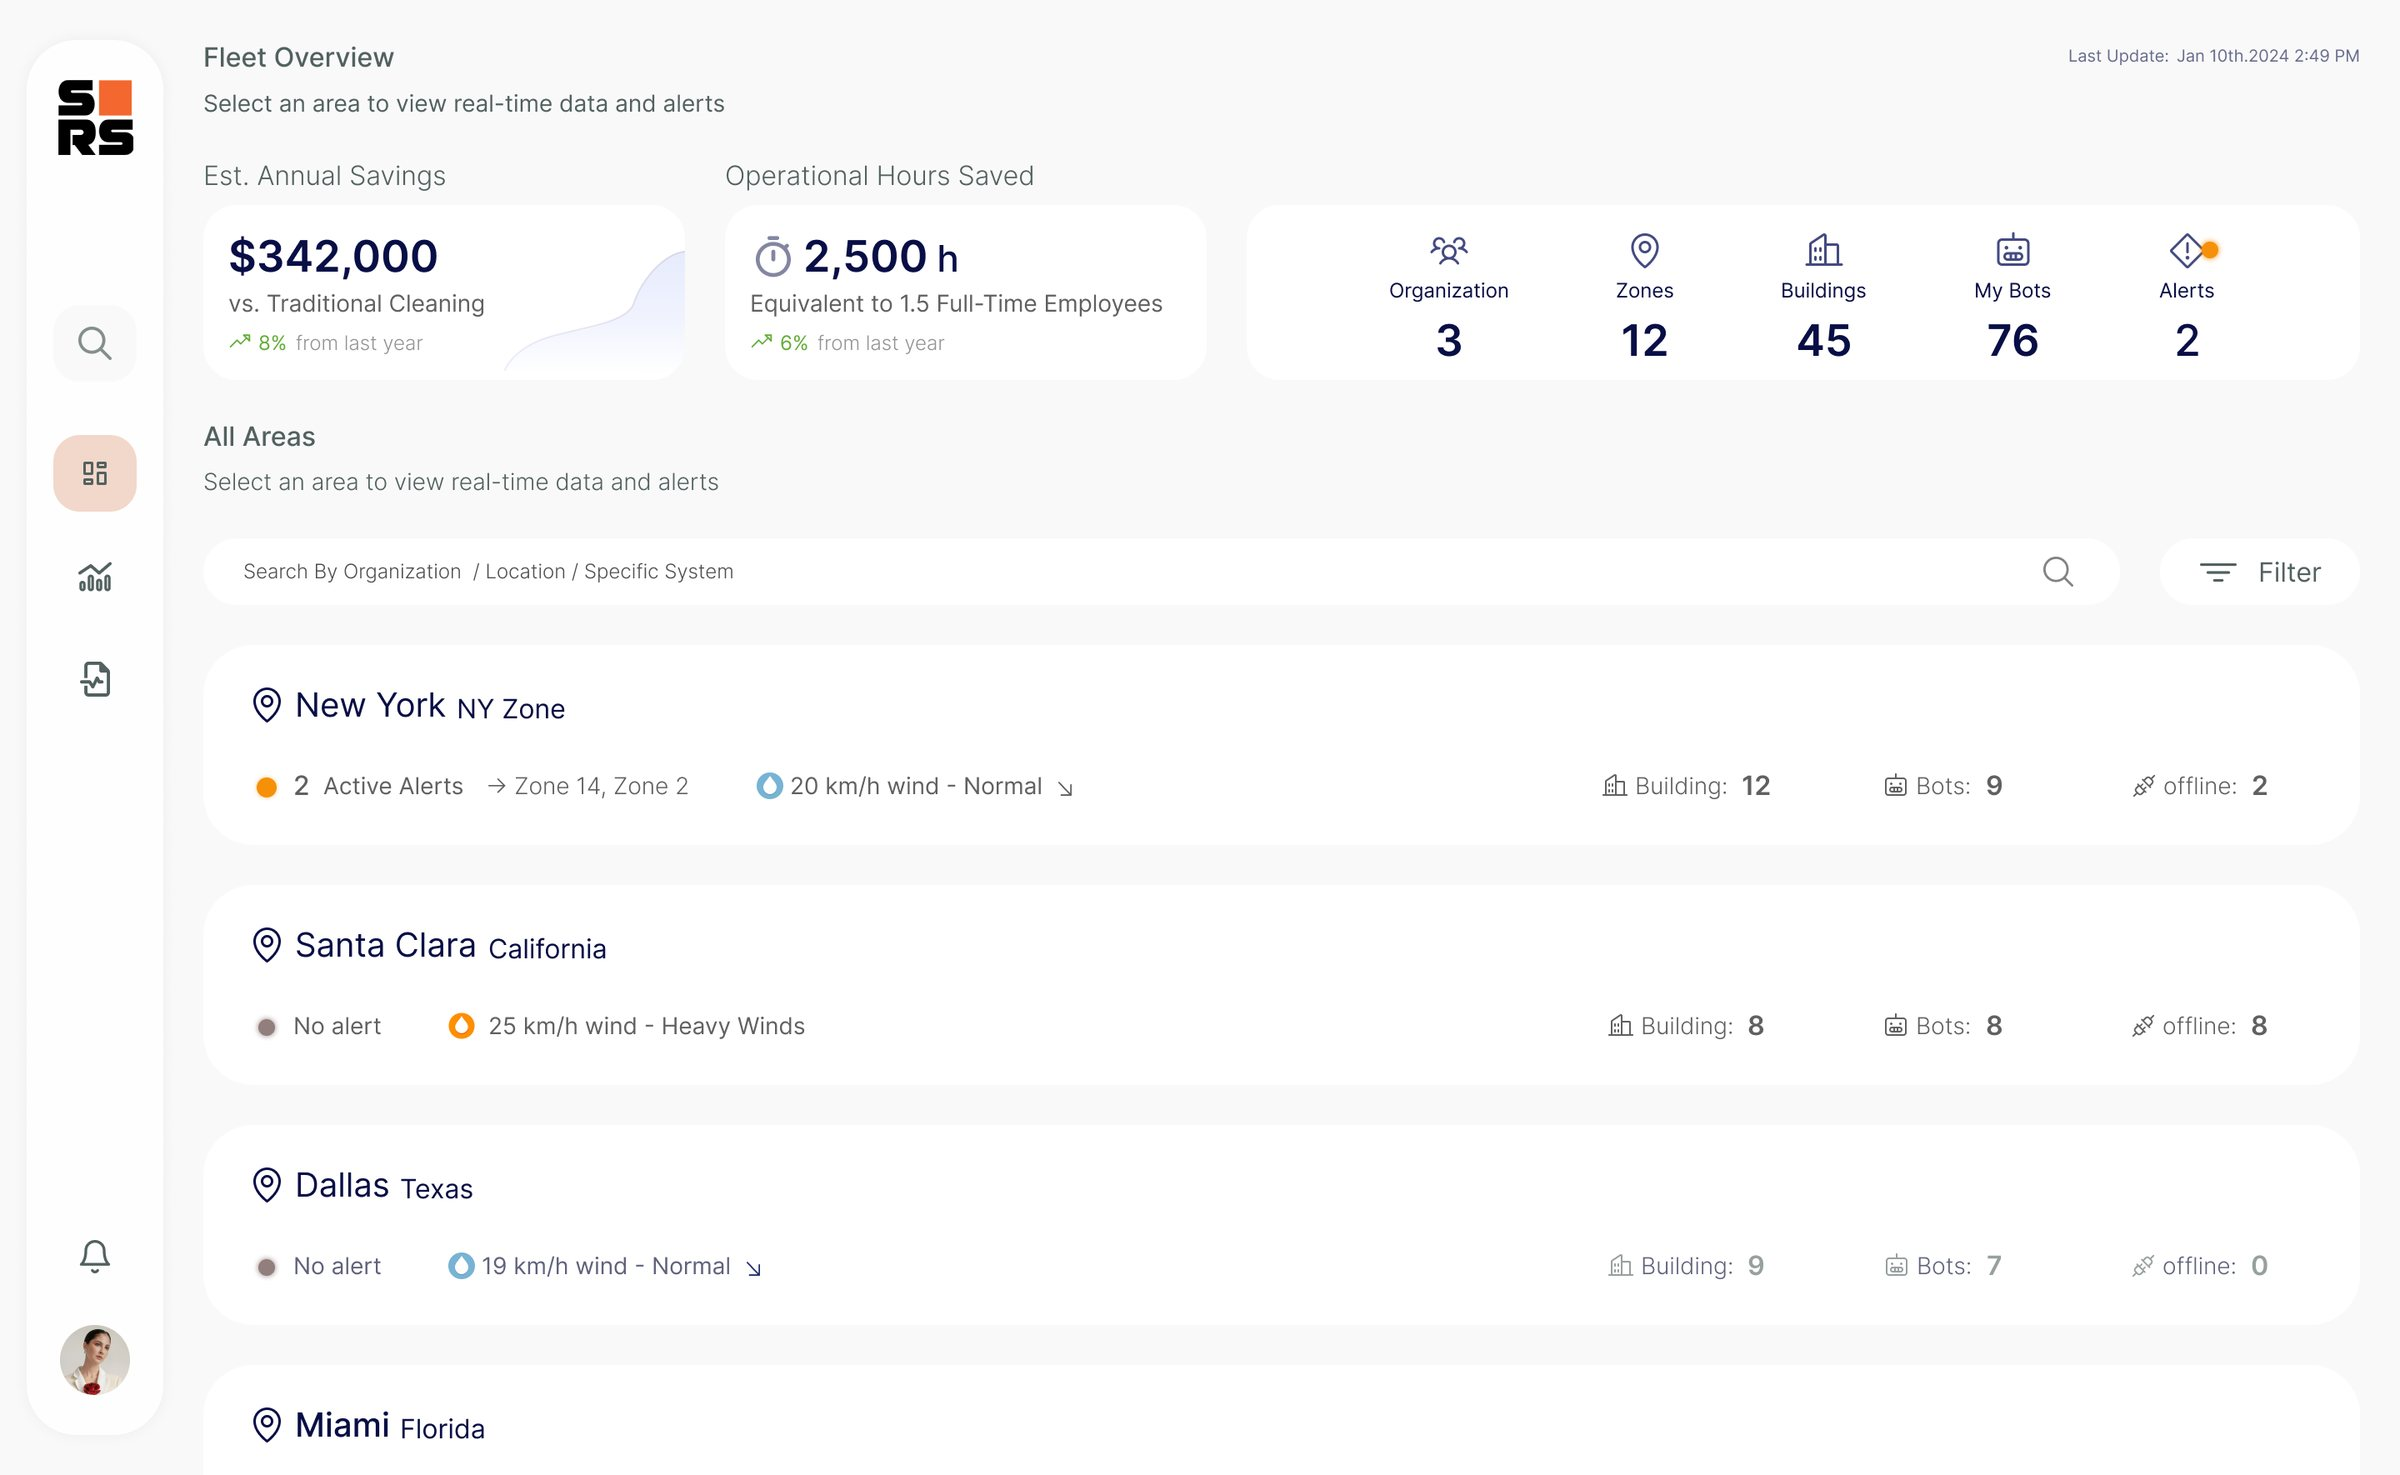
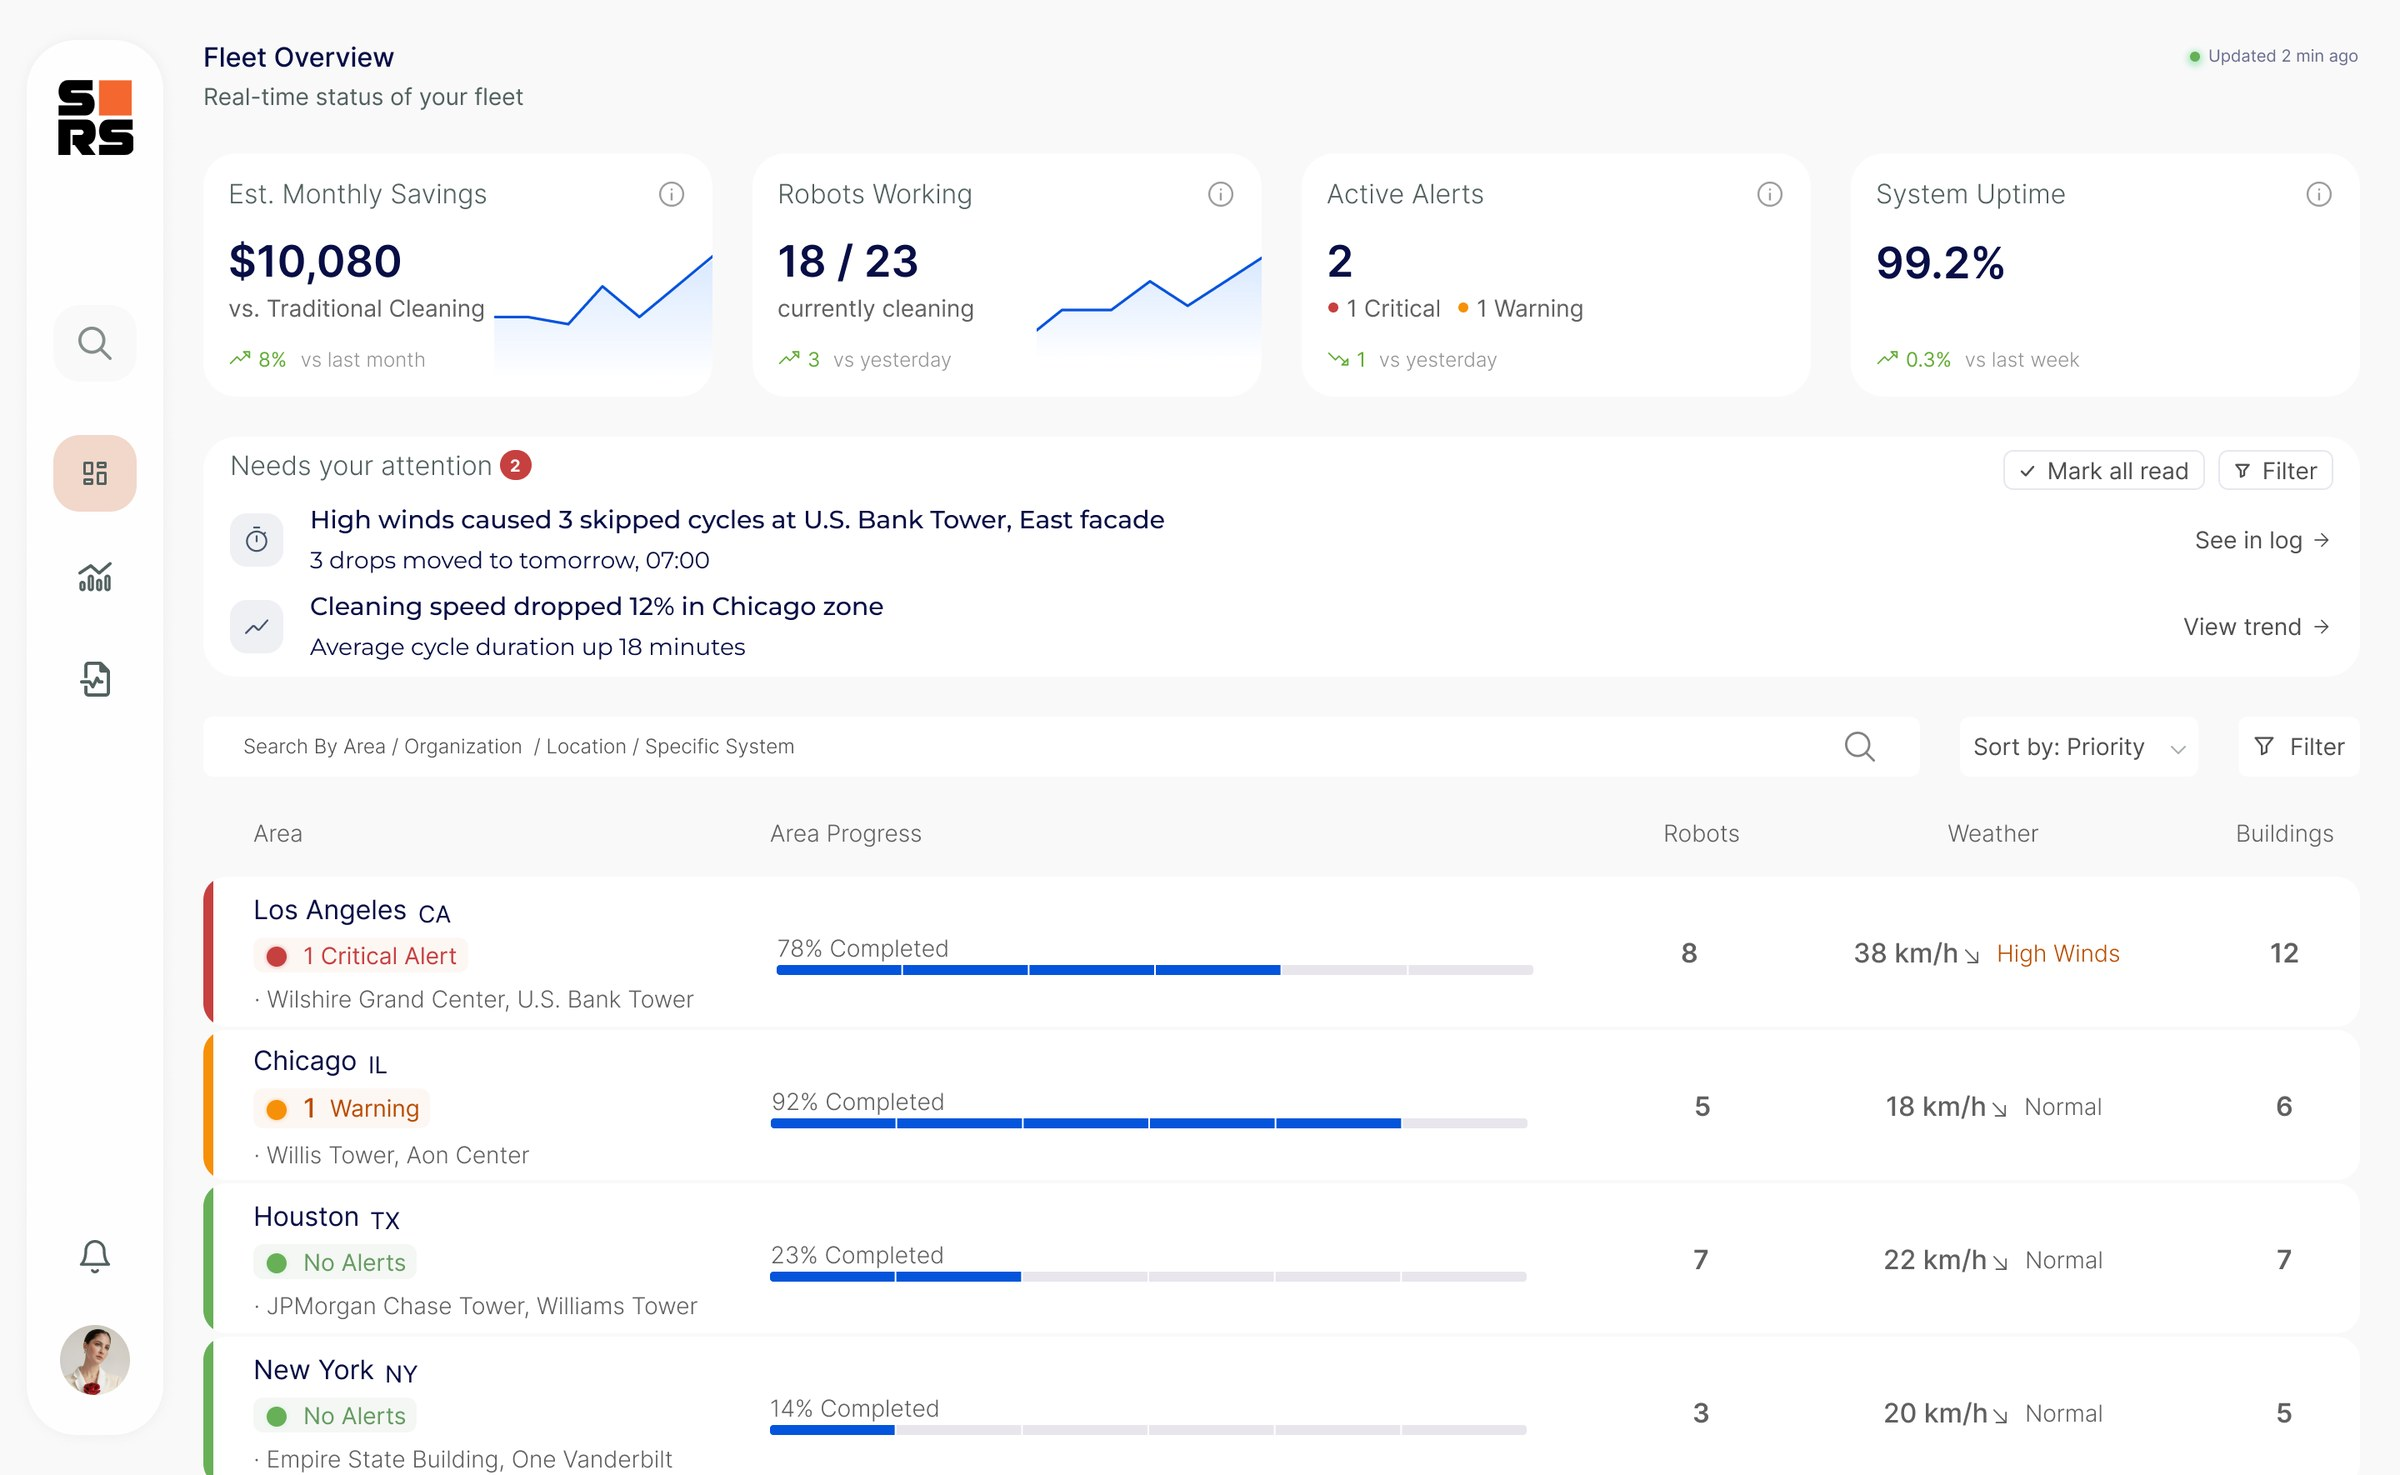
Skyline Level 1: newer Global Fleet Overview with consistent sample data
Claude-Session: https://claude.ai/code/session_01FDNqDtRRhx19cRjvQqmHKq

diff --git a/skyline.html b/skyline.html
@@ -85,7 +85,7 @@
     <p class="eyebrow">The platform</p>
     <h2>From the whole fleet down to a single window</h2>
     
-    <div class="stack" style="margin-top: clamp(40px, 5vw, 64px)"><div class="step"><p class="steplabel">The way in</p><h3 class="subhead">Login: Facade Analytics</h3><p class="lead">The entry point puts data access first. The illustration carries the core idea: visibility beyond the four walls of building management.</p><div class="shot"><img src="/img/skyline/login.jpg" alt="Login screen: “Welcome to Skyline’s Facade Analytics. Data, outside the four walls” next to the sign-in form" width="2400" height="1467" loading="lazy" decoding="async"></div><ul class="callouts" style="--cols: 3"><li><h3>Brand identity</h3><p>Clean Skyline Robotics branding builds trust from the first interaction.</p></li><li><h3>Visual metaphor</h3><p>An AI-generated illustration communicates the mission: data visibility beyond traditional boundaries.</p></li><li><h3>Minimal sign-in</h3><p>A short sign-in removes friction while keeping enterprise security standards.</p></li></ul></div><div class="step"><p class="steplabel">Level 1 · Entry point</p><h3 class="subhead">Global Fleet Overview</h3><p class="lead">The owner’s entry point: fleet health, active jobs and savings at a glance. Owners drill down only when something needs attention.</p><div class="shot"><img src="/img/skyline/fleet.jpg" alt="Fleet overview: estimated savings, hours saved, fleet totals and a list of areas with alerts and wind" width="2400" height="1475" loading="lazy" decoding="async"></div><p class="note">Figures shown are sample data.</p><ul class="callouts" style="--cols: 3"><li><h3>KPI cards</h3><p>Total robots, active jobs and resource savings, for an immediate read of business value.</p></li><li><h3>City distribution</h3><p>The fleet across locations, with status indicators.</p></li><li><h3>Performance trends</h3><p>Historical data showing efficiency over time.</p></li></ul></div><div class="step"><p class="steplabel">Level 2 · Regional</p><h3 class="subhead">Regional Drill-Down (NYC)</h3><p class="lead">The area manager’s entry point: every building in the region with its live status, on a 3D map with weather and wind alongside.</p><div class="shot"><img src="/img/skyline/region.jpg" alt="New York region: building list with online, warning and offline states next to a 3D city map with status pins" width="2400" height="1475" loading="lazy" decoding="async"></div><ul class="callouts" style="--cols: 2"><li><h3>Status indicators</h3><p>A color-coded building list with online, warning and issue states.</p></li><li><h3>Weather widget</h3><p>Temperature, wind speed and operational safety thresholds, right next to the buildings.</p></li></ul></div><div class="step"><p class="steplabel">Level 3 · Building detail</p><h3 class="subhead">Building Deep-Dive</h3><p class="lead">Window-by-window progress for a single building, with facade switching and a cleaning log that records every cycle, including weather stops.</p><div class="shot"><img src="/img/skyline/building.jpg" alt="Single building view: cleaning log with a heavy-winds stop and a window grid of the north facade" width="2400" height="1475" loading="lazy" decoding="async"></div><ul class="callouts" style="--cols: 3"><li><h3>Historic cycles</h3><p>Past cleaning cycles and their completion, for performance tracking.</p></li><li><h3>Facade switching</h3><p>North, south, east and west facades, to follow work on every side.</p></li><li><h3>Window grid</h3><p>The facade as a grid, with the live cleaning status of every window.</p></li></ul></div><div class="step"><p class="steplabel">Building setup</p><h3 class="subhead">Building Onboarding</h3><p class="lead">Every window in the view above has to be mapped before a robot can start. I designed the screen where the operator enters it on-site, with no developer in between: one drop, duplicated across the facade, with soft checks that catch typos before they reach the robot.</p><div class="shot"><img src="/img/building-onboarding/facade-view.jpg" alt="Add New Building screen with a facade schematic of twelve drops and an Edit Drop panel" width="2400" height="1506" loading="lazy" decoding="async"></div><a class="link-card" href="/building-onboarding"><span><b>Building Onboarding</b> · Read the full case study</span><svg width="14" height="14" viewBox="0 0 16 16" fill="none" aria-hidden="true"><path d="M3 8h9M8.5 4.5 12 8l-3.5 3.5" stroke="currentColor" stroke-width="1.5" stroke-linecap="square"/></svg></a></div><div class="step"><p class="steplabel">Level 4 · Management</p><h3 class="subhead">Granular analytics and anomaly detection</h3><p class="lead">Operational KPIs for a single building, compared against historical averages to surface anomalies.</p><div class="shot"><img src="/img/skyline/analytics.jpg" alt="Building analytics: savings and hours-saved cards, completed drops, and resource use compared with historical averages" width="2400" height="1475" loading="lazy" decoding="async"></div><p class="note">Figures shown are sample data.</p><ul class="callouts" style="--cols: 3"><li><h3>Business value</h3><p>Estimated annual savings and operational hours saved, compared with traditional cleaning.</p></li><li><h3>Benchmarking</h3><p>Current resource use against historical averages, to spot spikes early.</p></li><li><h3>Progress tracking</h3><p>Completed drops against the plan, with daily averages.</p></li></ul></div><div class="step"><p class="steplabel">Level 4 · Reports</p><h3 class="subhead">Operational analytics</h3><p class="lead">Performance scores, completed drops and water consumption per building, for client and sustainability reporting.</p><div class="shot"><img src="/img/skyline/reports.jpg" alt="Report view with performance scores, completed drops and water consumption per building" width="2400" height="1475" loading="lazy" decoding="async"></div><p class="note">Figures shown are sample data.</p><ul class="callouts" style="--cols: 3"><li><h3>Performance scores</h3><p>Actual against expected performance, per building.</p></li><li><h3>Completed drops</h3><p>Historical data on completed operations.</p></li><li><h3>Water consumption</h3><p>Usage per day, with anomaly alerts for unusual use.</p></li></ul></div></div>
+    <div class="stack" style="margin-top: clamp(40px, 5vw, 64px)"><div class="step"><p class="steplabel">The way in</p><h3 class="subhead">Login: Facade Analytics</h3><p class="lead">The entry point puts data access first. The illustration carries the core idea: visibility beyond the four walls of building management.</p><div class="shot"><img src="/img/skyline/login.jpg" alt="Login screen: “Welcome to Skyline’s Facade Analytics. Data, outside the four walls” next to the sign-in form" width="2400" height="1467" loading="lazy" decoding="async"></div><ul class="callouts" style="--cols: 3"><li><h3>Brand identity</h3><p>Clean Skyline Robotics branding builds trust from the first interaction.</p></li><li><h3>Visual metaphor</h3><p>An AI-generated illustration communicates the mission: data visibility beyond traditional boundaries.</p></li><li><h3>Minimal sign-in</h3><p>A short sign-in removes friction while keeping enterprise security standards.</p></li></ul></div><div class="step"><p class="steplabel">Level 1 · Entry point</p><h3 class="subhead">Global Fleet Overview</h3><p class="lead">The owner’s entry point answers one question first: is anything wrong right now? What needs attention sits above the areas, and the areas are sorted by priority.</p><div class="shot"><img src="/img/skyline/fleet.jpg" alt="Fleet overview: savings, robots working, active alerts and uptime; a Needs your attention list with a high-wind stop in Los Angeles and a slowdown in Chicago; and areas sorted by priority with progress, robots, weather and buildings" width="2400" height="1475" loading="lazy" decoding="async"></div><p class="note">Figures shown are sample data.</p><ul class="callouts" style="--cols: 3"><li><h3>KPI cards</h3><p>Savings, robots working, active alerts and uptime, each with its trend.</p></li><li><h3>Needs your attention</h3><p>The few issues that need a decision, each with a direct link to the log or the trend.</p></li><li><h3>Areas by priority</h3><p>Critical first, with a color edge, progress, robots and live weather per area.</p></li></ul></div><div class="step"><p class="steplabel">Level 2 · Regional</p><h3 class="subhead">Regional Drill-Down (NYC)</h3><p class="lead">The area manager’s entry point: every building in the region with its live status, on a 3D map with weather and wind alongside.</p><div class="shot"><img src="/img/skyline/region.jpg" alt="New York region: building list with online, warning and offline states next to a 3D city map with status pins" width="2400" height="1475" loading="lazy" decoding="async"></div><ul class="callouts" style="--cols: 2"><li><h3>Status indicators</h3><p>A color-coded building list with online, warning and issue states.</p></li><li><h3>Weather widget</h3><p>Temperature, wind speed and operational safety thresholds, right next to the buildings.</p></li></ul></div><div class="step"><p class="steplabel">Level 3 · Building detail</p><h3 class="subhead">Building Deep-Dive</h3><p class="lead">Window-by-window progress for a single building, with facade switching and a cleaning log that records every cycle, including weather stops.</p><div class="shot"><img src="/img/skyline/building.jpg" alt="Single building view: cleaning log with a heavy-winds stop and a window grid of the north facade" width="2400" height="1475" loading="lazy" decoding="async"></div><ul class="callouts" style="--cols: 3"><li><h3>Historic cycles</h3><p>Past cleaning cycles and their completion, for performance tracking.</p></li><li><h3>Facade switching</h3><p>North, south, east and west facades, to follow work on every side.</p></li><li><h3>Window grid</h3><p>The facade as a grid, with the live cleaning status of every window.</p></li></ul></div><div class="step"><p class="steplabel">Building setup</p><h3 class="subhead">Building Onboarding</h3><p class="lead">Every window in the view above has to be mapped before a robot can start. I designed the screen where the operator enters it on-site, with no developer in between: one drop, duplicated across the facade, with soft checks that catch typos before they reach the robot.</p><div class="shot"><img src="/img/building-onboarding/facade-view.jpg" alt="Add New Building screen with a facade schematic of twelve drops and an Edit Drop panel" width="2400" height="1506" loading="lazy" decoding="async"></div><a class="link-card" href="/building-onboarding"><span><b>Building Onboarding</b> · Read the full case study</span><svg width="14" height="14" viewBox="0 0 16 16" fill="none" aria-hidden="true"><path d="M3 8h9M8.5 4.5 12 8l-3.5 3.5" stroke="currentColor" stroke-width="1.5" stroke-linecap="square"/></svg></a></div><div class="step"><p class="steplabel">Level 4 · Management</p><h3 class="subhead">Granular analytics and anomaly detection</h3><p class="lead">Operational KPIs for a single building, compared against historical averages to surface anomalies.</p><div class="shot"><img src="/img/skyline/analytics.jpg" alt="Building analytics: savings and hours-saved cards, completed drops, and resource use compared with historical averages" width="2400" height="1475" loading="lazy" decoding="async"></div><p class="note">Figures shown are sample data.</p><ul class="callouts" style="--cols: 3"><li><h3>Business value</h3><p>Estimated annual savings and operational hours saved, compared with traditional cleaning.</p></li><li><h3>Benchmarking</h3><p>Current resource use against historical averages, to spot spikes early.</p></li><li><h3>Progress tracking</h3><p>Completed drops against the plan, with daily averages.</p></li></ul></div><div class="step"><p class="steplabel">Level 4 · Reports</p><h3 class="subhead">Operational analytics</h3><p class="lead">Performance scores, completed drops and water consumption per building, for client and sustainability reporting.</p><div class="shot"><img src="/img/skyline/reports.jpg" alt="Report view with performance scores, completed drops and water consumption per building" width="2400" height="1475" loading="lazy" decoding="async"></div><p class="note">Figures shown are sample data.</p><ul class="callouts" style="--cols: 3"><li><h3>Performance scores</h3><p>Actual against expected performance, per building.</p></li><li><h3>Completed drops</h3><p>Historical data on completed operations.</p></li><li><h3>Water consumption</h3><p>Usage per day, with anomaly alerts for unusual use.</p></li></ul></div></div>
   </div>
 </section>
 <section class="section">
